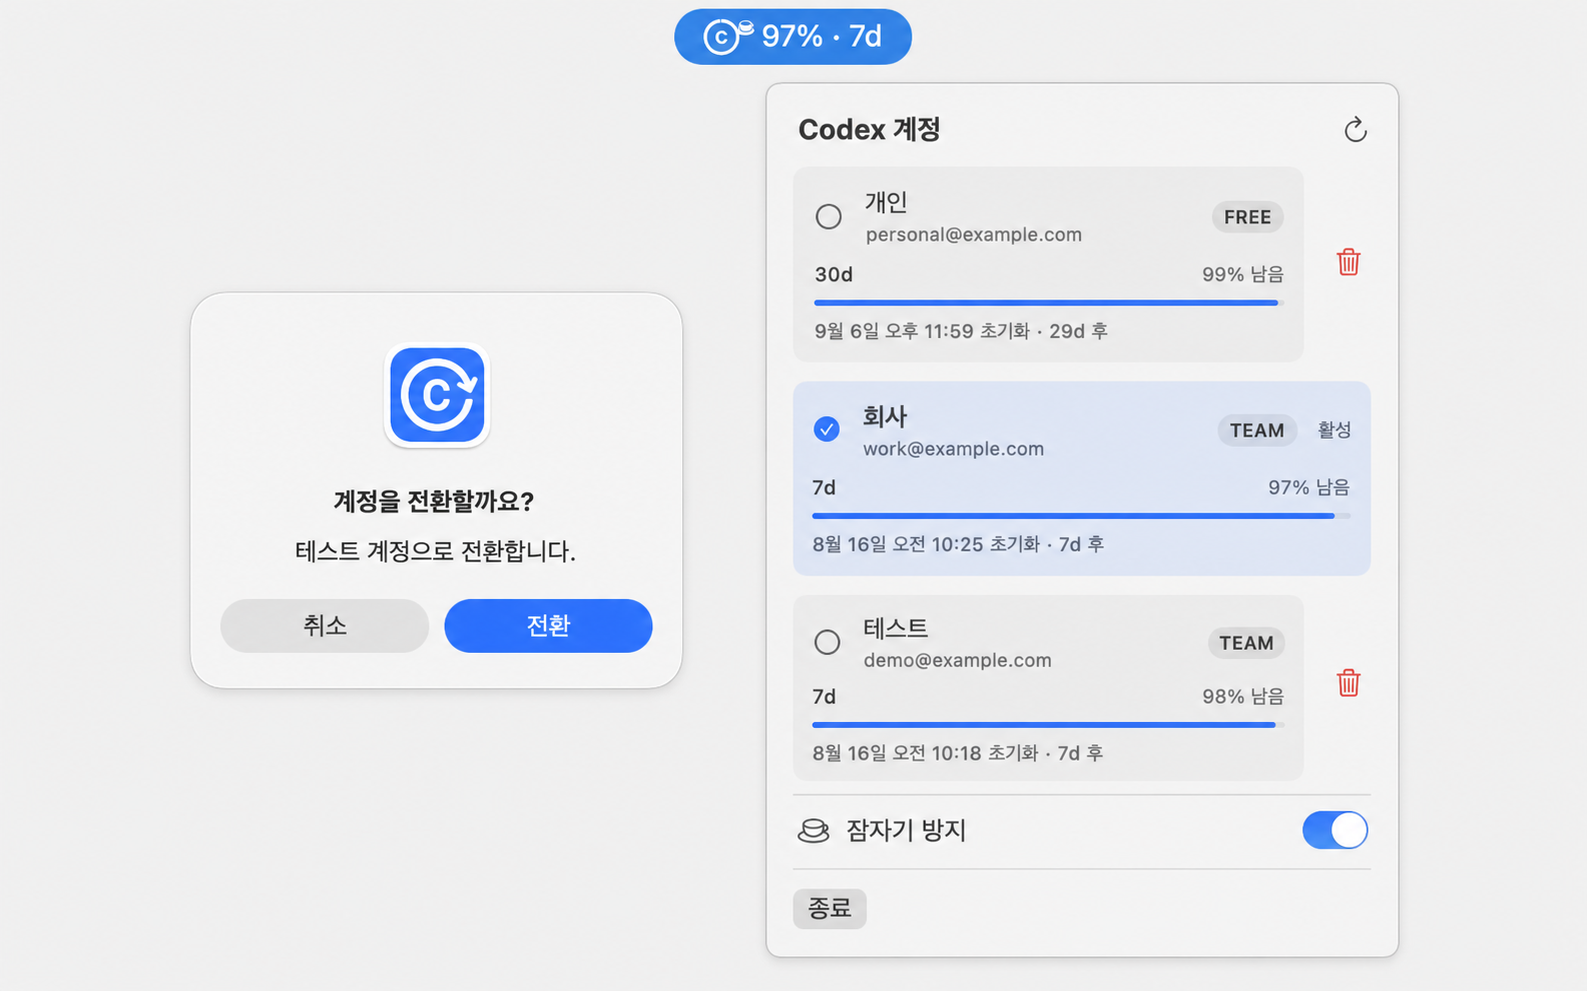
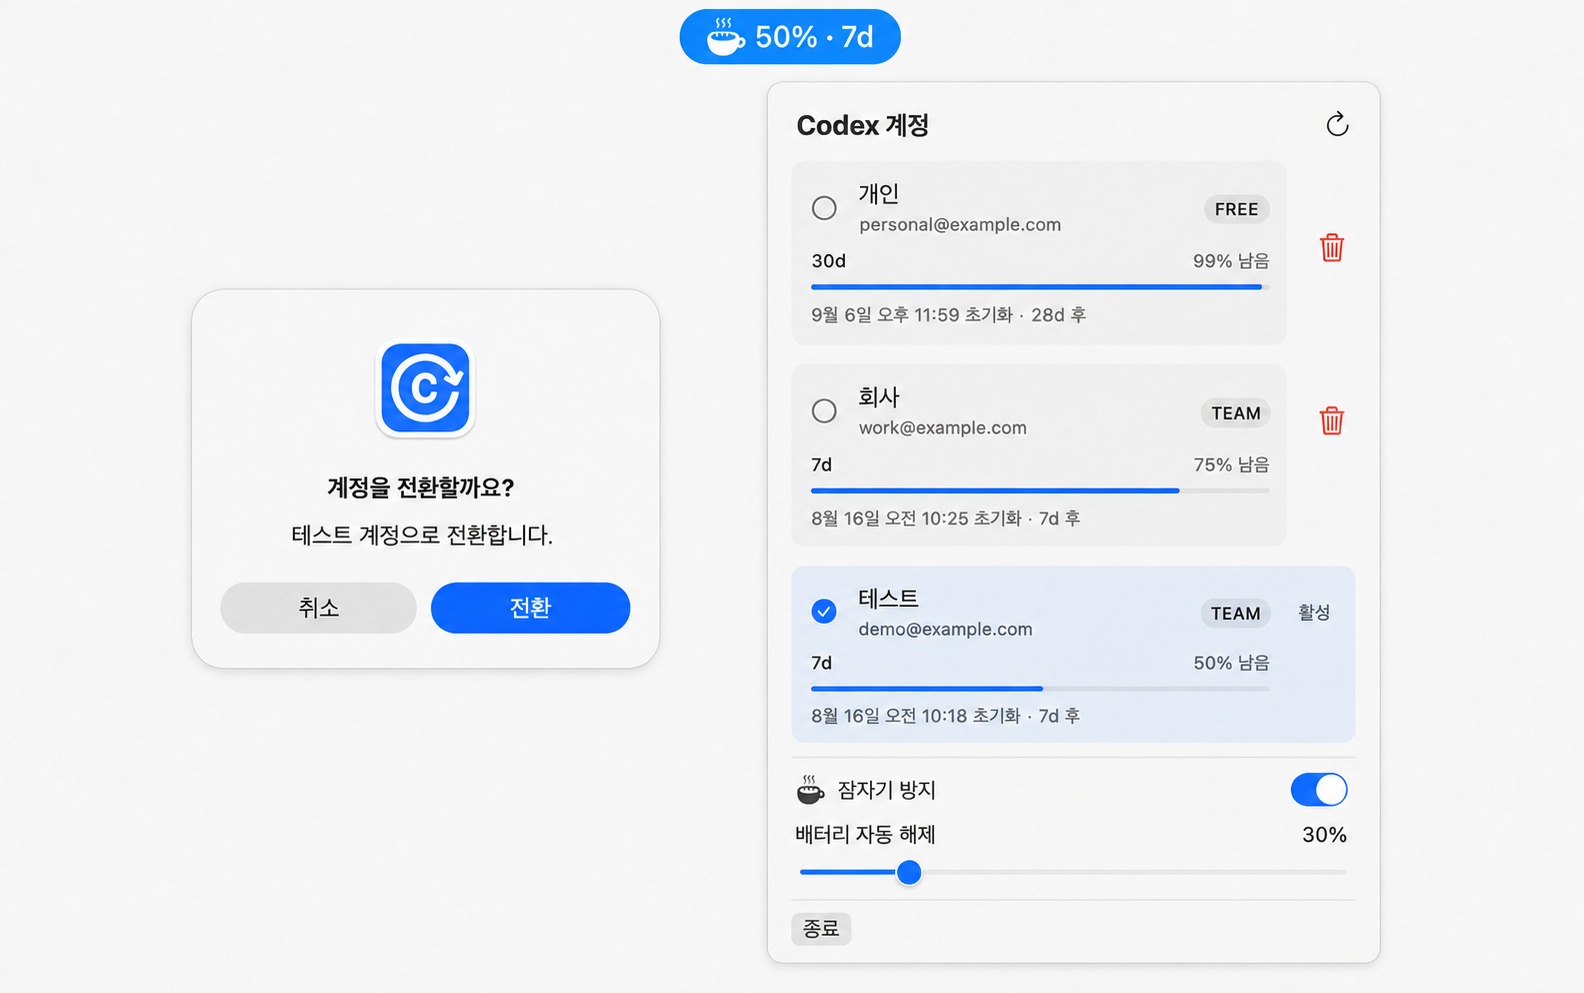
docs: 최신 잠자기 방지 화면 반영
README의 상태 이미지와 계정 등록·추가·전환 GIF를
현재 커피잔 및 배터리 자동 해제 UI에 맞춘다.

Constraint: 공개 자산에는 실제 계정 정보와 인증 정보를 포함하지 않음
Rejected: 실제 전체 화면 재사용 | 이름과 이메일 노출 위험
Rejected: GIF 전체 재촬영 | 기존 가상 흐름과 재생 시간을 불필요하게 변경함
Confidence: high
Scope-risk: narrow
Reversibility: clean
Directive: 실제 계정이 보이는 원본 스크린샷을 공개 자산으로 커밋하지 않음
Tested: PNG/GIF 형식, GIF 프레임 수와 재생 시간, git diff --check
Related: 9d43063 (커피잔 상태 애니메이션)

diff --git a/README.md b/README.md
@@ -5,7 +5,7 @@ Codex Account Switcher는 macOS용 Codex 데스크톱 앱 계정을 메뉴바에
 **계정 전환을 한 번 승인하면 Codex 앱 정상 종료 → 인증 교체 → 대상 검증 → 앱 재실행을 자동 처리한다.** 실행 중인 CLI·IDE 작업은 인증 보호를 위해 전환 전에 종료해야 한다.
 
 <p align="center">
-  <img src="docs/assets/menu-bar-status.png" width="206" alt="김이 나는 채운 커피잔, 활성 계정 한도 97%, 초기화까지 7일을 표시하는 메뉴바 상태">
+  <img src="docs/assets/menu-bar-status.png" width="206" alt="김이 나는 채운 커피잔, 활성 계정 한도 50%, 초기화까지 7일을 표시하는 메뉴바 상태">
 </p>
 
 <p align="center"><sub>가상 상태 예시. 잠자기 방지가 켜지면 채운 커피잔 위로 김 세 줄이 오르고, 꺼지면 빈 커피잔을 표시한다.</sub></p>
